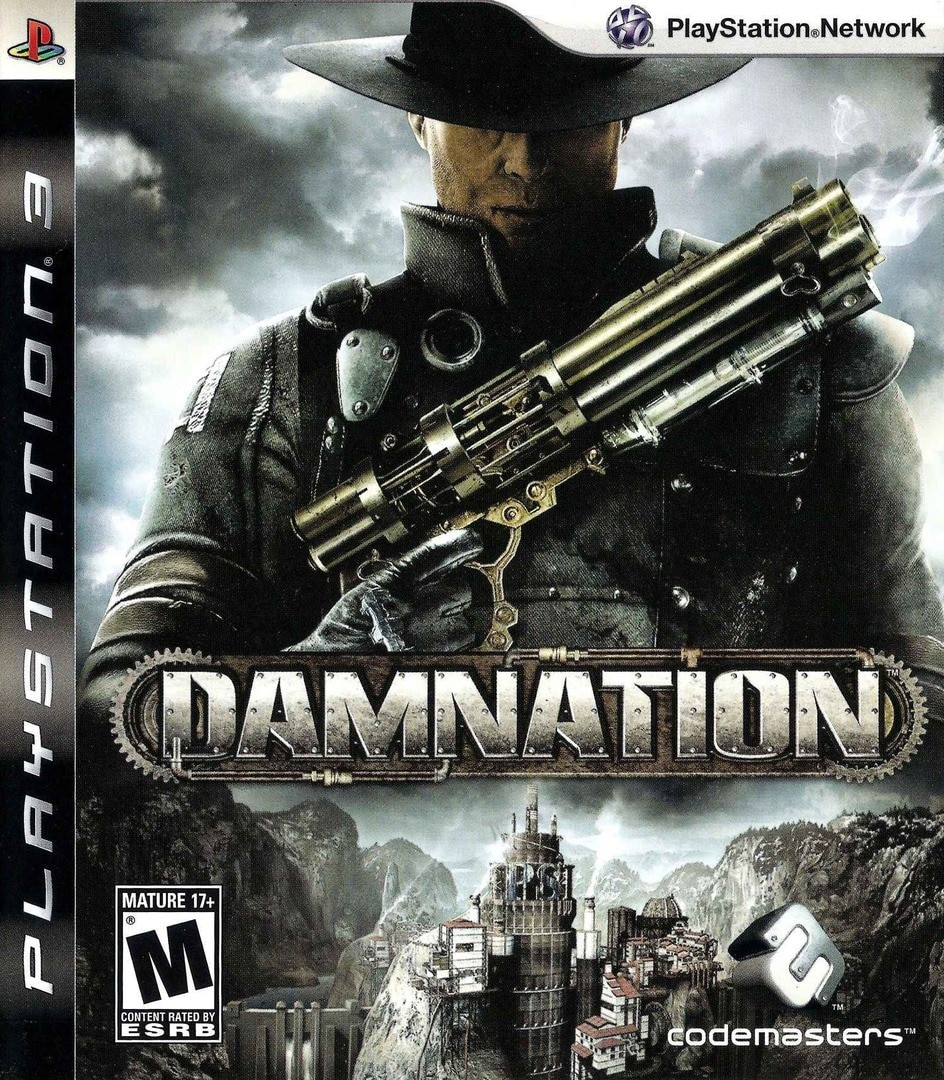
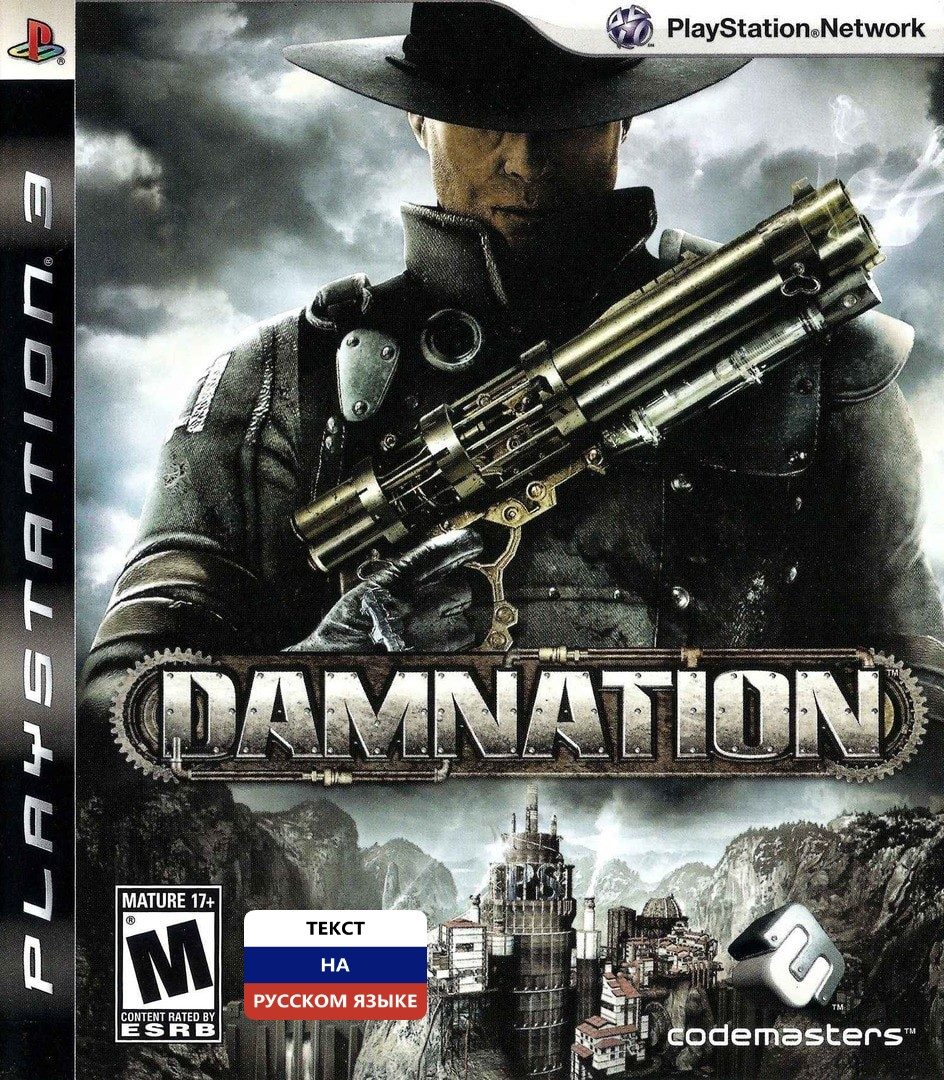
Add files via upload

Changed region(s): [[0.2458, 0.825, 0.4608, 0.9472]]

diff --git a/files/ps3/Damnation.html b/files/ps3/Damnation.html
@@ -41,11 +41,11 @@
 	 <br>
 	 Издательство: Codemasters
 	 <br>
-	 Язык Интерфейса: Английский <div class="eng"></div>
+	 Язык Интерфейса: Русский <div class="rus"></div>
 	 <br>
 	 Язык Озвучки: Английский <div class="eng"></div>
 	 <br>
-	 Язык Субтитров: Английский <div class="eng"></div>
+	 Язык Субтитров: Русский <div class="rus"></div>
 	 <br>
 	 Код диска: BLES00526
 	 <br>
@@ -56,10 +56,12 @@
 	 <h4 style="color:#FFFFFF">
  Государство охватила гражданская война. Она длилась неоправданно долго и завершилась всеобщим хаосом. Города и поселения лежат в руинах, люди безумно устали от кровопролития и хотят лишь одного – мира. Воспользовавшись удачным моментом, к власти в стране пришла мощная оружейная корпорация. Вновь над разоренной страной пронеслось пламя конфликта. Против мирных жителей рвущиеся к власти дельцы бросили обученных и вооруженных до зубов наемников. Лишь горстка бойцов способна оказать им сопротивление. Вновь прольется кровь и обагрит каменистые склоны гор и каньонов.
      </h4>
-	 <h2 style="color:#FFFFFF">Скачать ISO:</h2>
+	 <h2 style="color:#FFFFFF">Скачать Русскую версию ISO:</h2>
 	<b>
-	   <button title="Скачать" onclick="link1()">ISO [RUS_VIDEO](5.71gb)</button>
-	 </b><br><br><hr><br><br><b>
+	   <button title="Скачать" onclick="link1()">ISO (5.70gb)</button>
+	 </b><br><br><hr>
+	<h2 style="color:#FFFFFF">Скачать Английскую версию версию ISO:</h2>
+	<b>
 	   <button title="Скачать" onclick="link2()">ISO [IRD](5.59gb)</button>
       </b>
 	  <br>

diff --git a/files/ps3/js/Damnation.js b/files/ps3/js/Damnation.js
@@ -1,4 +1,4 @@
[2 lines of base64/hex data omitted]
 	var decoded01 = atob(str01);
 	var link01 = "http://ouo.io/qs/iCKfnfRr?s=" + "http://catcut.net/go.php?h_i=12735&h_u=" + (str01);
 	

diff --git a/files/ps2/js/Rogue_Trooper.js b/files/ps2/js/Rogue_Trooper.js
@@ -1,4 +1,4 @@
 
[2 lines of base64/hex data omitted]
 	var decoded01 = atob(str01);
 	var link01 = "http://ouo.io/qs/iCKfnfRr?s=" + "http://catcut.net/go.php?h_i=12735&h_u=" + (str01);

diff --git a/files/ps2/js/Final_Fantasy_XII.js b/files/ps2/js/Final_Fantasy_XII.js
@@ -1,3 +1,3 @@
[2 lines of base64/hex data omitted]
 	var decoded01 = atob(str01);
 	var link01 = "http://ouo.io/qs/iCKfnfRr?s=" + "http://catcut.net/go.php?h_i=12735&h_u=" + (str01);

diff --git a/files/ps3/js/Skate_2.js b/files/ps3/js/Skate_2.js
@@ -1,5 +1,5 @@
 
[1 lines of base64/hex data omitted]
+		var str01 = "aHR0cHM6Ly9kaXNrLnlhbmRleC5ydS9kL0dWa1JvaGgyU25sUzZB";
 	var decoded01 = atob(str01);
 	var link01 = "http://ouo.io/qs/iCKfnfRr?s=" + "http://catcut.net/go.php?h_i=12735&h_u=" + (str01);
 	
